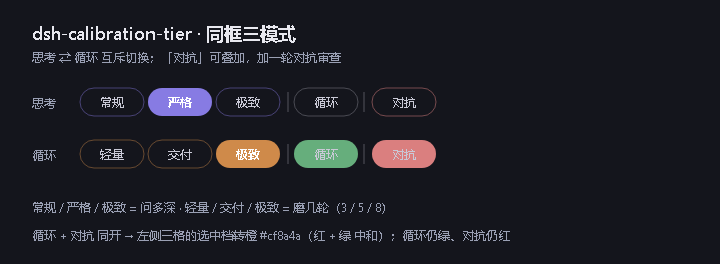
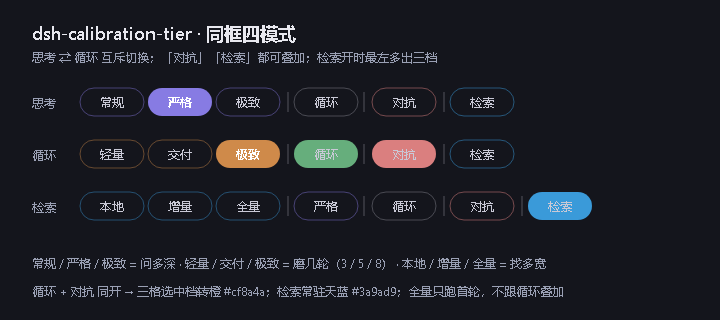
feat: 思考强度落地——歧义点 / 覆盖轴 / 逆向清单，循环模式不再短路（2.3.0）
- clarify_tier 返回 think{level,label,intensity,probes,axes,reverse,confirm,ask}：常规 0；严格 2·3·1；极致 3·6·3
- 循环模式不再返回 tier:"off"：轻量/交付/极致 映射 常规/严格/极致，think.source=loop；forge_level 同带 think
- 技能 clarify-needs：三档表加「思考强度」列，新增「三张清单怎么用」（歧义点 / 覆盖轴 / 逆向）
- 文档：README、使用说明同步；demo.svg 每行补「检索」开关并按新图重出 demo.png
- 测试 83 → 86

diff --git a/lib/tools.js b/lib/tools.js
@@ -12,6 +12,7 @@ import {
   LOOP_PLAN,
   counterPlan,
   routePlan,
+  thinkPlan,
   DEFAULT_SESSION,
   sanitizeSession,
   emit,
@@ -144,37 +145,44 @@ export function registerTools(ctx, log) {
   ctx.tools.register({
     name: "clarify_tier",
     description:
-      "读取当前对话的档位（思考模式：常规/严格/极致，第一格值为 off 表示不锚定；循环模式下返回 off，表示不叠加锚定），同时返回检索开关（本地/增量/全量，含是否联网与读取上限）。开工前若本工具可用先调用；读不到按 high。不要复述结果。",
+      "读取当前对话的思考强度（常规/严格/极致，思考与循环两种模式都返回）：常规 0 / 严格 2 / 极致 3，随强度给出三张清单——歧义点（问不问由它决定）、覆盖轴（多全面）、逆向（pre-mortem / 反证 / 反例），以及提问口径。同时返回对抗开关与检索开关。开工前若本工具可用先调用；读不到按 high。不要复述结果。",
     parameters: { type: "object", properties: {}, additionalProperties: false },
     output: OUTPUT,
     execute: async (args, exec) => {
       const sessionId = sessionFromExec(exec);
       const state = turnState(sessionId, turnIdFromExec(exec));
-      const thinkCounter = counterPlan("think", state.level, state.counter);
+      const think = thinkPlan(state.mode, state.level);
+      const counter = counterPlan(state.mode, state.level, state.counter);
       const route = routePlan(state.route.on, state.route.level);
+      const counterLine = counter.enabled
+        ? `对抗审：开（每轮最多 ${counter.maxAttacks} 条，${counter.scope === "round-changes" ? "每轮审改动" : "动手前审方案 + 交付前审改动"}）`
+        : "对抗审：关";
       if (state.mode === "loop") {
+        const plan = LOOP_PLAN[state.level] || LOOP_PLAN.high;
         return {
-          tier: "off",
+          tier: state.level,
           mode: state.mode,
           session: sessionId,
-          counter: counterPlan("loop", state.level, state.counter),
+          think,
+          counter,
           route,
           turnLocked: state.turnLocked,
           pending: state.pending,
           updatedAt: state.updatedAt,
-          text: `当前是循环模式：不叠加思考档（判据在循环第 1 步写）；需要强提问就先退回思考档。${routeLine(route)}。`,
+          text: `循环档位 = ${plan.forge}（${LABELS.loop[state.level]}：上限 ${plan.maxRounds} 轮，${plan.review}）；思考强度同档位映射——${think.text}；${think.ask}。${counterLine}。${routeLine(route)}。`,
         };
       }
       return {
         tier: state.level,
         mode: state.mode,
         session: sessionId,
-        counter: thinkCounter,
+        think,
+        counter,
         route,
         turnLocked: state.turnLocked,
         pending: state.pending,
         updatedAt: state.updatedAt,
-        text: `思考档位 = ${state.level}（${LABELS.think[state.level]}）；常规=按平时标准直接做（不锚定），严格为默认。对抗审：${thinkCounter.enabled ? `开（每轮最多 ${thinkCounter.maxAttacks} 条，动手前审方案 + 交付前审改动）` : "关"}。${routeLine(route)}。`,
+        text: `思考档位 = ${state.level}（${LABELS.think[state.level]}）；${think.text}；${think.ask}。${counterLine}。${routeLine(route)}。`,
       };
     },
   });
@@ -183,13 +191,14 @@ export function registerTools(ctx, log) {
   ctx.tools.register({
     name: "forge_level",
     description:
-      "读取当前对话的循环档位：未进循环模式返回 off；循环模式下返回 lite（3 轮）/ high（5 轮）/ max（8 轮）。跑 loop-forge 前先调用。不要复述结果。",
+      "读取当前对话的循环档位：未进循环模式返回 off；循环模式下返回 lite（3 轮）/ high（5 轮）/ max（8 轮），并带同档位的思考强度（think：歧义点 / 覆盖轴 / 逆向三张清单）。跑 loop-forge 前先调用。不要复述结果。",
     parameters: { type: "object", properties: {}, additionalProperties: false },
     output: OUTPUT,
     execute: async (args, exec) => {
       const sessionId = sessionFromExec(exec);
       const state = turnState(sessionId, turnIdFromExec(exec));
       const route = routePlan(state.route.on, state.route.level);
+      const think = thinkPlan(state.mode, state.level);
       if (state.mode !== "loop") {
         return {
           forge: "off",
@@ -199,10 +208,11 @@ export function registerTools(ctx, log) {
           pending: state.pending,
           maxRounds: 0,
           review: "未进入循环模式",
+          think,
           counter: counterPlan("think", state.level, state.counter),
           route,
           updatedAt: state.updatedAt,
-          text: "未进入循环模式：交付后不自动打磨（要打磨就把模式拨到「循环」）。",
+          text: `未进入循环模式：交付后不自动打磨（要打磨就把模式拨到「循环」）。${think.text}。`,
         };
       }
       const plan = LOOP_PLAN[state.level] || LOOP_PLAN.high;
@@ -217,10 +227,11 @@ export function registerTools(ctx, log) {
         pending: state.pending,
         maxRounds: plan.maxRounds,
         review: plan.review,
+        think,
         counter,
         route,
         updatedAt: state.updatedAt,
-        text: `循环档位 = ${plan.forge}（${LABELS.loop[state.level]}：上限 ${plan.maxRounds} 轮，${plan.review}；对抗审 ${counter.enabled ? `开，每轮最多 ${counter.maxAttacks} 条` : "关"}）。`,
+        text: `循环档位 = ${plan.forge}（${LABELS.loop[state.level]}：上限 ${plan.maxRounds} 轮，${plan.review}；对抗审 ${counter.enabled ? `开，每轮最多 ${counter.maxAttacks} 条` : "关"}）；${think.text}。`,
       };
     },
   });

diff --git a/lib/core.js b/lib/core.js
@@ -28,6 +28,66 @@ export const LABELS = {
   loop: { off: "轻量", high: "交付", max: "极致" },
   route: { off: "本地", high: "增量", max: "全量" },
 };
+/**
+ * 思考强度（v2.3.0）：档位不再只报一个名字，而是一张「怎么想」的清单——
+ * ① 歧义点 probes：先判定哪些地方会有歧义，问不问由它决定；
+ * ② 覆盖轴 axes：全面性，一轴一条，不许留空；
+ * ③ 逆向 reverse：pre-mortem / 反证 / 反例，三档按强度分配。
+ * 循环模式不再短路思考强度：同档位映射一份（轻量=常规、交付=严格、极致=极致），
+ * 否则「在循环档里从不提问」就成了默认行为（2.2.1 那次 About 漏更新就是这么来的）。
+ */
+export const THINK_PLAN = {
+  off: {
+    intensity: 0,
+    probes: [],
+    axes: [],
+    reverse: [],
+    confirm: 0,
+    ask: "不问、不复述：按平时标准直接做",
+  },
+  high: {
+    intensity: 2,
+    probes: [
+      "目标与验收：完成的样子能不能一句话验收，说不清就是歧义",
+      "不可逆与外部动作：推送 / 发布 / 改设置 / 删除，谁批准、怎么回滚",
+    ],
+    axes: ["正常路径", "边界与空值", "失败与回滚"],
+    reverse: ["pre-mortem：先写「最可能怎么坏」，再倒推要避开的点"],
+    confirm: 2,
+    ask: "只问会改变执行的分歧；能自己查证的，不占提问额度",
+  },
+  max: {
+    intensity: 3,
+    probes: [
+      "目标与验收：一句话验收，说不清就是歧义",
+      "不可逆与外部动作：谁批准、回滚路径、失败分支",
+      "范围与取舍：不做什么、为什么不做，把代价写明",
+    ],
+    axes: ["正常路径", "边界与空值", "失败与回滚", "依赖与副作用", "成本与性能", "后续与可维护"],
+    reverse: ["pre-mortem：假设已经失败，倒推原因", "反证：什么证据会直接推翻这个结论", "反例：每条给触发条件 / 后果 / 检查方法"],
+    confirm: 3,
+    ask: "先弹窗问 frontier（会改变执行的分歧），能查证的自己查",
+  },
+};
+export const THINK_LEVELS = ["off", "high", "max"];
+
+/** 思考强度的对外快照：思考/循环两种模式都有——循环按同档位映射，不再返回 off。 */
+export function thinkPlan(mode, level) {
+  const lv = THINK_LEVELS.includes(level) ? level : DEFAULT_LEVEL;
+  const plan = THINK_PLAN[lv];
+  return {
+    source: mode === "loop" ? "loop" : "think",
+    level: lv,
+    label: LABELS.think[lv],
+    intensity: plan.intensity,
+    probes: plan.probes.slice(),
+    axes: plan.axes.slice(),
+    reverse: plan.reverse.slice(),
+    confirm: plan.confirm,
+    ask: plan.ask,
+    text: `${LABELS.think[lv]}（强度 ${plan.intensity}）：歧义点 ${plan.probes.length} · 覆盖轴 ${plan.axes.length} · 逆向 ${plan.reverse.length}`,
+  };
+}
 export const TITLES = {
   think: {
     off: "常规：按平时标准直接做，不锚定、不复述、不提问",

diff --git a/README.md b/README.md
@@ -66,9 +66,10 @@
 ```
 
 - **会话键**：客户端用插槽 inject 给的 `sessionId`，经 `?session=` 传给桥；工具用 `exec.agent.session.id`，读不到才落 `default`
-- `clarify_tier`：思考模式返回 `level` + `counter`；循环模式返回 `off`（不叠加锚定）+ `counter`；两种模式都返回 `route`（开关 + 档位 + 执行口径，关着时 `plan=null`）
+- `clarify_tier`：两种模式都返回 `tier` + `think`（思考强度：常规 0 / 严格 2 / 极致 3，含 `probes / axes / reverse` 三张清单与提问口径）+ `counter` + `route`（开关 + 档位 + 执行口径，关着时 `plan=null`）；循环模式另带 `forge` 信息
 - `counter` = 对抗开关：`{ enabled, maxAttacks, scope }`，密度随档位（常规/严格 3 条、极致 5 条），`scope` 思考为 `plan+delivery`、循环为 `round-changes`
-- `forge_level`：思考模式返回 `off`；循环模式把 `off/high/max` 映射成 `lite/high/max` 与 3/5/8 轮；同样带 `counter`
+- `forge_level`：思考模式返回 `off`；循环模式把 `off/high/max` 映射成 `lite/high/max` 与 3/5/8 轮；同样带 `think` 与 `counter`
+- **思考强度（v2.3.0）**：档位不只报名字，还给出「怎么想」——歧义点（问不问的判据，严格 2 / 极致 3）、覆盖轴（全面性，3 / 6）、逆向（pre-mortem / 反证 / 反例，1 / 3）；循环模式同档位映射，不再退回 `off`
 - **每轮快照**：一条用户消息 = 一轮（轮号取 `agent.phase.turn`）。开工第一次调工具时，把当时的设置记成本轮快照（`turn{id,mode,level,counter,route}`）；本轮内再点档位条只改「下轮的值」，条尾显示一个循环色小点（`pending`）
 - 下一轮开工自动换用新值；取不到轮 id 时退回实时值（不做轮内保护，但功能不坏）
 - 没单独设置过的对话，继承 `default` 会话（迁移自 0.6 的全局值），再没有就用内置 `think/high`
@@ -120,7 +121,7 @@ pwsh -File install-profile.ps1 -Uninstall  # 卸载
 ## 测试
 
 ```bash
-npm test        # node --test，83 项，约 5 秒
+npm test        # node --test，86 项，约 5 秒
 npm run lint    # scripts/check.mjs：lib 下所有模块 + 所有测试逐个 node --check
 npm run verify  # lint + test，本地 CI 就用这条
 ```
@@ -177,7 +178,8 @@ cmd /c mklink /J "D:\AI\DSH-NEXT\skills\counter-review" "%CD%\skill\counter-revi
 - **SSE 重建有上限**（`CONFIG.maxReconnects`，默认 3 次、间隔 2 秒）：连不上就停手，不做无限重试；重建时会顺手作废端口缓存，宿主换了端口也能重新发现
 - 状态文件只有一个（`storages/calibration.json`）：并发写按「最后落盘为准」，没有跨进程锁
 - 工具返回的是调用时刻的值；中途改档要再调一次
-- 循环模式不叠加思考档：需要强提问就先退回思考模式；但「对抗」在思考/循环两种强度模式下都能叠加，不冲突
+- 循环模式也返回思考强度（同档位映射：轻量 = 常规、交付 = 严格、极致 = 极致）；「对抗」在两种模式下都能叠加，不冲突
+- 思考强度是「清单」不是「开关」：工具只负责把歧义点 / 覆盖轴 / 逆向发下来，真按不按看模型执行；要更硬的约束就往上加档或开对抗
 - 多窗口实时同步：SSE 推送，同一对话两窗同时改动以最后落盘为准；SSE 不可用时退回「切窗口重新对齐」
 - 快照是**按轮**的：只影响「我这一轮用什么」，不改你拨出来的值；别的对话互不影响
 - **诊断默认关**：启动时不再往宿主写 `calibration-debug.jsonl`（那个文件不轮转，会一直长）。要抓注册链路时在控制台执行 `localStorage.setItem("dsh-tier-debug","1")` 再刷新，用完删掉这个键

diff --git a/docs/release-notes.md b/docs/release-notes.md
@@ -3,6 +3,20 @@
 > GitHub Release 直接取用。更早版本（0.1.0–1.1.1）的逐条记录见 `CHANGELOG.md`。
 > 写法约定：只写机制、范围、限制、数字；不写形容词与口号。
 
+## v2.3.0 — 思考强度落到清单：歧义点 / 覆盖轴 / 逆向
+
+**改了什么**：`clarify_tier` 不再只回一个档名，而是随档位发三张清单，模型据此决定「问什么、看多全、怎么反推」。
+
+**三张清单**：
+
+- **歧义点**（严格 2 条 / 极致 3 条）：目标与验收能不能一句话说清；不可逆与外部动作（推送 / 发布 / 改设置 / 删除）谁批准、怎么回滚；范围与取舍（不做什么、代价是什么）。只有**答案会改变执行**的才弹窗问，能自己查证的不占提问额度。
+- **覆盖轴**（严格 3 条 / 极致 6 条）：正常路径、边界与空值、失败与回滚；极致再加依赖与副作用、成本与性能、后续与可维护。逐轴一句结论，未涉及的写「Z」。
+- **逆向**（严格 1 条 / 极致 3 条）：pre-mortem（假设已失败，倒推原因）；极致再加反证（什么证据会推翻结论）与反例（触发条件 / 后果 / 检查方法）。
+
+**循环模式不再短路**：此前循环档固定返回 `tier: "off"`、工具文案写「不叠加思考档」，于是循环档里从不提问——2.2.1 的 GitHub About 带着「一框三模式」发了两版没人发现，就是这条的直接后果。现在轻量 / 交付 / 极致 同档位映射成 常规 / 严格 / 极致，`think.source` 标 `loop`；`forge_level` 同样带 `think`。
+
+**范围**：状态 schema、`/state` 字段、客户端节点与配色都没变；变的是两个工具的返回结构与文案。`think` 里 `probes / axes / reverse` 是可执行清单，`confirm` 是要报的确认点个数，`ask` 是提问口径。新增 3 项测试，共 86 项。
+
 ## v2.2.1 — 循环模式下「检索」恒天蓝
 
 **改了什么**：`检索` 开关和它展开的三格（本地 / 增量 / 全量）不再跟着模式换色——思考、循环都是天蓝 `#3a9ad9`。循环开关仍绿、对抗开关仍红；循环 + 对抗同开时只有等级条转橙。

diff --git a/CHANGELOG.md b/CHANGELOG.md
@@ -1,5 +1,14 @@
 # 变更记录
 
+## 2.3.0 — 2026-10-28
+- **`clarify_tier` 从「报档名」升级成「发清单」**：`think = {level,label,intensity,probes,axes,reverse,confirm,ask,text}`。常规 0 条；严格 2 个歧义点 · 3 条覆盖轴 · 1 次逆向；极致 3 · 6 · 3
+- **歧义点**（问不问的判据）：目标与验收能不能一句话说清 / 不可逆与外部动作（推送、发布、改设置、删除）谁批准、怎么回滚 / 范围与取舍。只有「答案会改变执行」的才弹窗问，能自己查证的不占提问额度
+- **覆盖轴**（全面性）：正常路径 / 边界与空值 / 失败与回滚，极致再加依赖与副作用、成本与性能、后续与可维护；逐轴给一句结论，未涉及的写 Z
+- **逆向**（反推）：严格 1 条 pre-mortem；极致再加反证（什么证据会推翻结论）与反例（触发条件 / 后果 / 检查方法）
+- **循环模式不再返回 `tier: "off"`**：轻量 / 交付 / 极致 同档位映射成 常规 / 严格 / 极致，`think.source="loop"`；`forge_level` 也带 `think`。起因是「循环档里从不提问」把公告面漏更新当成了默认行为（2.2.1 的 GitHub About 就是这么漏的）
+- 工具描述与 `clarify-needs` 技能同步：三档表加「思考强度」列，新增「三张清单怎么用」小节（歧义点 / 覆盖轴 / 逆向），循环模式按同档位映射走本技能
+- README、使用说明同步；新增 3 项测试（档位分配、循环映射、文案守护），测试 83 → 86
+
 ## 2.2.1 — 2026-10-27
 - **修：循环一开，「检索」被染成绿色**。循环的换色规则原先写通用 `.dct-cell[data-on='1']:not(.dct-counter)`（特异性 0,5,0），压过检索的 `.dct-routecell / .dct-route-toggle{background:var(--dct-route)}`（0,3,0），所以只要在循环模式，检索开关和它那三格都跟着变绿；使用说明与 README 写的却是「检索常驻天蓝」，实现和文档不一致
 - **改法**：循环的换色收窄成 `.dct-cell[data-level][data-on='1']`——只认三级条的选中格；检索格、检索开关、对抗开关各自保持天蓝 / 天蓝 / 雾红

diff --git a/docs/使用说明.md b/docs/使用说明.md
@@ -1,7 +1,7 @@
 # dsh-calibration-tier 使用说明
 
 > 给 DSH（DeepSeek Harness）输入框加一条档位条：**四种模式 + 三个强度档**，用来控制模型「动手前问多深、交付后磨几轮、要不要额外再审一遍、要不要去找技能」。
-> 版本：2.2.1（简称 CT）　适用：DSH Desktop / DSH NEXT（带 Web 客户端插件支持的版本）
+> 版本：2.3.0（简称 CT）　适用：DSH Desktop / DSH NEXT（带 Web 客户端插件支持的版本）
 
 ---
 
@@ -49,8 +49,10 @@
 | 档 | 模型会做什么 |
 |---|---|
 | 常规 | 按平时标准直接做：不锚定、不复述、不提问 |
-| 严格（默认） | 复述目标 + 2 个确认点 + 一句风险 + 假设清单 + 回滚/验收/失败分支 |
-| 极致 | 严格全部，再加设计树、反例与代价、对抗自检、对抗复审、止损线 |
+| 严格（默认） | 复述目标 + 2 个确认点（从歧义点里挑）+ 一句风险（逆向 pre-mortem）+ 假设清单 + 回滚/验收/失败分支 |
+| 极致 | 严格全部，再加 6 条覆盖轴逐条、反证与反例、对抗自检、对抗复审、止损线 |
+
+**思考强度按档位分配**（v2.3.0）：三张清单随档位发下来——**歧义点**（严格 2 / 极致 3：目标与验收、不可逆与外部动作、范围与取舍，只有会改变执行的才问）、**覆盖轴**（严格 3 / 极致 6：正常路径 / 边界与空值 / 失败与回滚 / 依赖与副作用 / 成本与性能 / 后续与可维护）、**逆向**（严格 1 / 极致 3：pre-mortem、反证、反例）。**循环模式不例外**：轻量 = 常规、交付 = 严格、极致 = 极致，所以在循环档里也会先问歧义、再动手。
 
 ### 打磨三档（循环模式）
 
